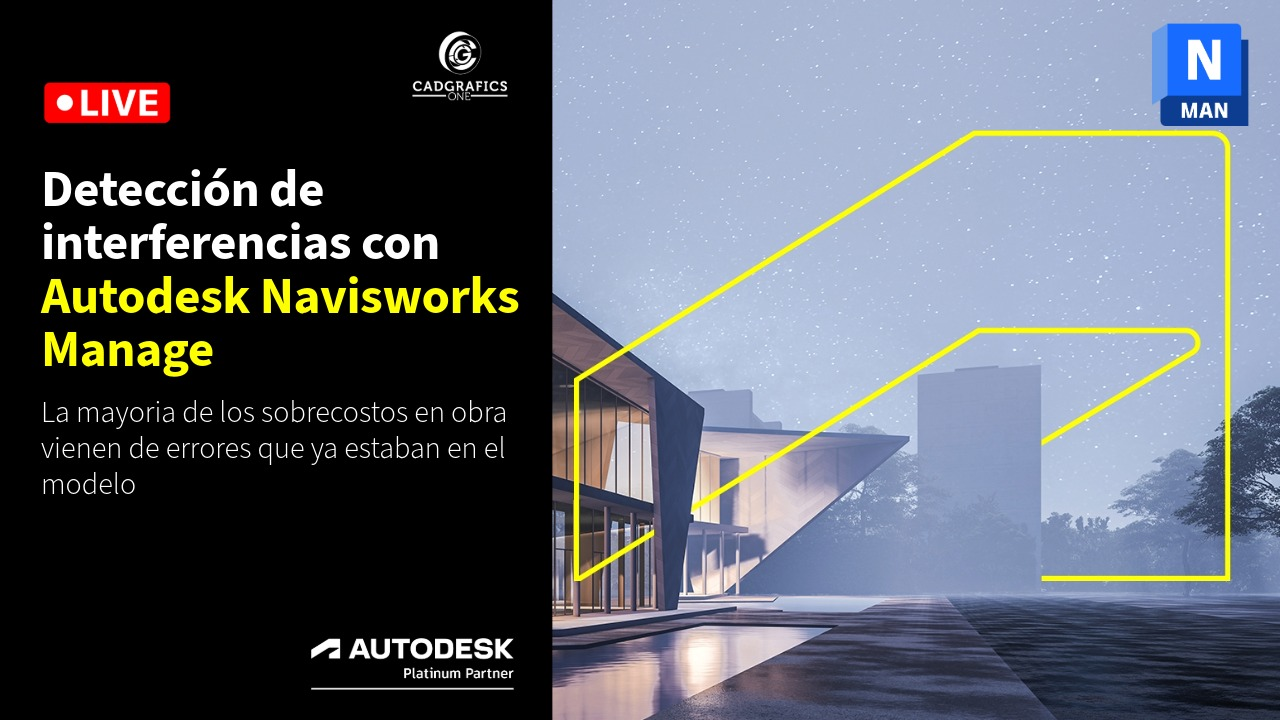
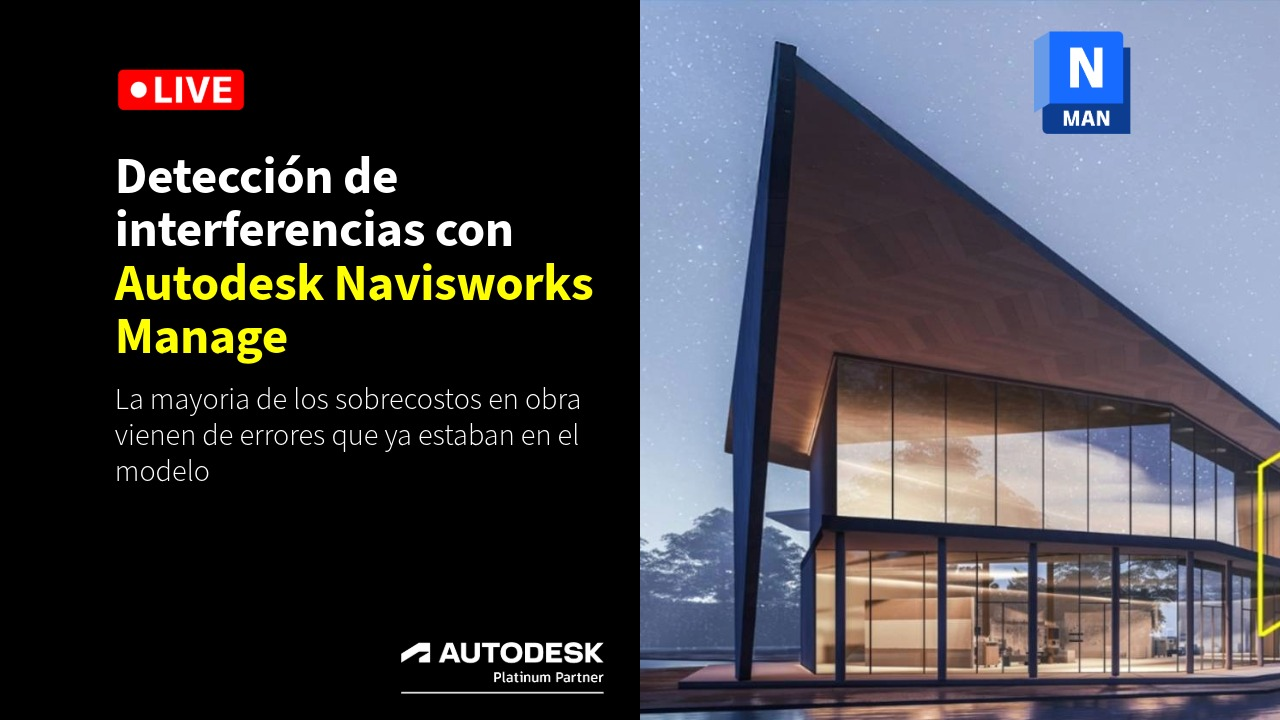
boletin informativo completado

diff --git a/pages/brevo/news_brevo.html b/pages/brevo/news_brevo.html
@@ -528,7 +528,7 @@
 <li><b>Photoshop</b> Edita describiendo por texto o voz</li>
 <li><b>Illustrator</b> Vectores a partir de instrucciones</li>
 </ul>
-<a href="#" class="btn">Reservar mi lugar</a>
+<a href="https://us02web.zoom.us/meeting/register/BDO_SBu1Sqqny9G7q9NhQQ#/registration" class="btn" target="_blank" rel="noopener noreferrer">Reservar mi lugar</a>
 </div>
 </div>
  
@@ -552,7 +552,8 @@
  
     <div class="card-grid">
 <div class="card">
-<div class="card-thumb" style="background:linear-gradient(135deg, var(--red-deep), var(--ink));">
+<div class="card-thumb">
+<img src="fusion.jpeg" alt="Miniatura del webinar: Fusion + Autodesk Assistant — aprovecha la IA" width="300" height="188"/>
 <span class="kicker">Nuevo · 38 min</span>
 <div class="play"><svg width="14" height="14" viewBox="0 0 24 24" fill="var(--ink)"><path d="M8 5v14l11-7z"/></svg></div>
 </div>
@@ -560,7 +561,7 @@
 <span class="cat">Fusion · IA</span>
 <h3>Fusion + Autodesk Assistant: aprovecha la IA</h3>
 <p>Grabación completa del webinar de julio — mejores prácticas para integrar el asistente de IA en tu flujo de diseño.</p>
-<a href="#" class="card-link">Ver grabación →</a>
+<a href="https://www.youtube.com/watch?v=mGxNXuKiMsk" class="card-link" target="_blank" rel="noopener noreferrer">Ver grabación →</a>
 </div>
 </div>
  
@@ -580,6 +581,7 @@
  
       <div class="card">
 <div class="card-thumb">
+<img src="cuantificaciones.png" alt="Miniatura: Cuantificaciones y presupuestos automáticos con Autodesk Forma Takeoff" width="1280" height="720"/>
 <span class="kicker">6 min</span>
 <div class="play"><svg width="14" height="14" viewBox="0 0 24 24" fill="var(--ink)"><path d="M8 5v14l11-7z"/></svg></div>
 </div>
@@ -587,7 +589,7 @@
 <span class="cat">BIM · Forma</span>
 <h3>Cuantificaciones y presupuestos automáticos</h3>
 <p>Genera tomas de cantidades precisas con Autodesk Forma Takeoff.</p>
-<a href="#" class="card-link">Ver grabación →</a>
+<a href="https://www.youtube.com/watch?v=batLbtV4UGk&amp;t=11s" class="card-link" target="_blank" rel="noopener noreferrer">Ver grabación →</a>
 </div>
 </div>
 </div>
@@ -616,9 +618,9 @@
 <div class="cta-line">¿Tienes dudas sobre algo de esta edición?</div>
 <p>Escríbenos y un especialista de Cadgrafics te responde en menos de 24h.</p>
 <div class="social-row">
-<a href="#"><svg width="14" height="14" viewBox="0 0 24 24" fill="#fff"><path d="M22 12a10 10 0 1 0-11.5 9.9v-7H8v-3h2.5V9.5C10.5 7 12 5.5 14.2 5.5c1 0 2 .2 2 .2v2.3h-1.2c-1.2 0-1.5.7-1.5 1.5V12H16l-.4 3h-2.4v7A10 10 0 0 0 22 12Z"/></svg></a>
-<a href="#"><svg width="14" height="14" viewBox="0 0 24 24" fill="#fff"><path d="M4.98 3.5a2.5 2.5 0 1 1 0 5 2.5 2.5 0 0 1 0-5ZM3 9h4v12H3V9Zm7 0h3.8v1.7h.05c.53-1 1.83-2.05 3.77-2.05 4.03 0 4.78 2.65 4.78 6.1V21h-4v-5.6c0-1.34-.02-3.07-1.87-3.07-1.87 0-2.16 1.46-2.16 2.97V21h-4V9Z"/></svg></a>
-<a href="#"><svg width="14" height="14" viewBox="0 0 24 24" fill="#fff"><path d="M22.5 6.2s-.2-1.5-.8-2.2c-.8-.8-1.7-.8-2.1-.9C16.7 3 12 3 12 3h0s-4.7 0-7.6.1c-.4 0-1.3.1-2.1.9-.6.7-.8 2.2-.8 2.2S1.3 8 1.3 9.7v1.6c0 1.7.2 3.5.2 3.5s.2 1.5.8 2.2c.8.8 1.9.8 2.4.9C6.5 18 12 18 12 18s4.7 0 7.6-.2c.4 0 1.3-.1 2.1-.9.6-.7.8-2.2.8-2.2s.2-1.7.2-3.5V9.7c0-1.7-.2-3.5-.2-3.5ZM9.8 13.3V7.9l5.4 2.7-5.4 2.7Z"/></svg></a>
+<a href="https://www.facebook.com/Cadgrafics" target="_blank" rel="noopener noreferrer" aria-label="Facebook Cadgrafics"><svg width="14" height="14" viewBox="0 0 24 24" fill="#fff"><path d="M22 12a10 10 0 1 0-11.5 9.9v-7H8v-3h2.5V9.5C10.5 7 12 5.5 14.2 5.5c1 0 2 .2 2 .2v2.3h-1.2c-1.2 0-1.5.7-1.5 1.5V12H16l-.4 3h-2.4v7A10 10 0 0 0 22 12Z"/></svg></a>
+<a href="https://mx.linkedin.com/company/cadgrafics" target="_blank" rel="noopener noreferrer" aria-label="LinkedIn Cadgrafics"><svg width="14" height="14" viewBox="0 0 24 24" fill="#fff"><path d="M4.98 3.5a2.5 2.5 0 1 1 0 5 2.5 2.5 0 0 1 0-5ZM3 9h4v12H3V9Zm7 0h3.8v1.7h.05c.53-1 1.83-2.05 3.77-2.05 4.03 0 4.78 2.65 4.78 6.1V21h-4v-5.6c0-1.34-.02-3.07-1.87-3.07-1.87 0-2.16 1.46-2.16 2.97V21h-4V9Z"/></svg></a>
+<a href="https://www.youtube.com/@cadgrafics1639" target="_blank" rel="noopener noreferrer" aria-label="YouTube Cadgrafics"><svg width="14" height="14" viewBox="0 0 24 24" fill="#fff"><path d="M22.5 6.2s-.2-1.5-.8-2.2c-.8-.8-1.7-.8-2.1-.9C16.7 3 12 3 12 3h0s-4.7 0-7.6.1c-.4 0-1.3.1-2.1.9-.6.7-.8 2.2-.8 2.2S1.3 8 1.3 9.7v1.6c0 1.7.2 3.5.2 3.5s.2 1.5.8 2.2c.8.8 1.9.8 2.4.9C6.5 18 12 18 12 18s4.7 0 7.6-.2c.4 0 1.3-.1 2.1-.9.6-.7.8-2.2.8-2.2s.2-1.7.2-3.5V9.7c0-1.7-.2-3.5-.2-3.5ZM9.8 13.3V7.9l5.4 2.7-5.4 2.7Z"/></svg></a>
 </div>
 <div class="footer-legal">Equipo Cadgrafics ONE · Ciudad de México · darse de baja</div>
 </div>
